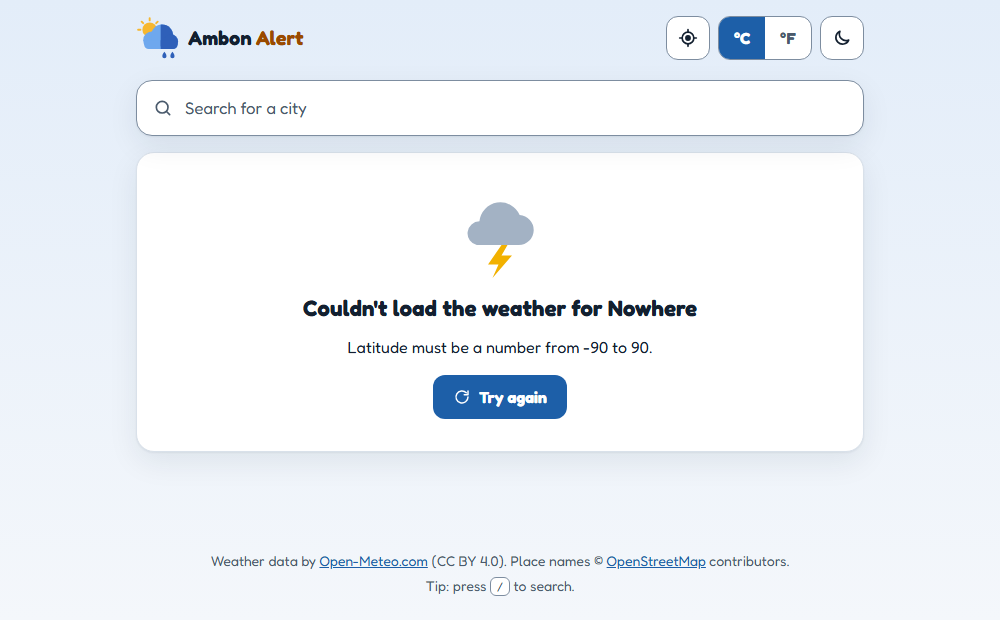
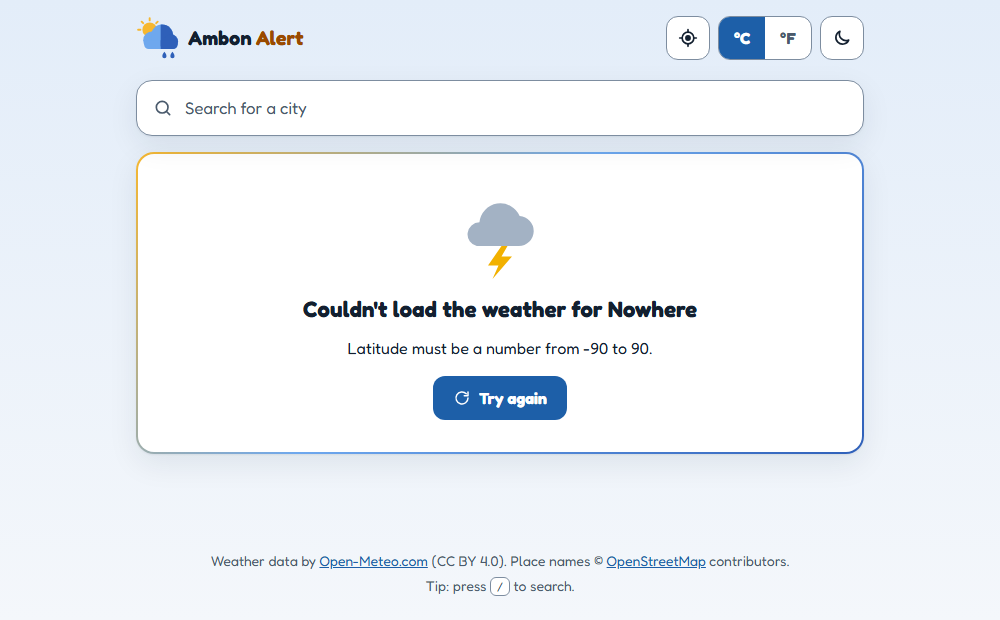
Give every card and table a coloured border
- Cards: a 2px border that fades from the logo's sun orange to its
  light and deep blues, in light and dark themes
- Detail tiles, hour tiles, the 7-day table (new frame and row lines),
  the search dropdown and the notice: a soft blue border
- Slightly less padding in the phone detail tiles, so values fit as before
- AGENTS.md explains the border trick; screenshots retaken

diff --git a/weather/static/style.css b/weather/static/style.css
@@ -24,6 +24,11 @@
   --shimmer: rgb(255 255 255 / 70%);
   --shadow: 0 1px 2px rgb(19 32 48 / 6%), 0 10px 30px rgb(19 32 48 / 8%);
   --radius: 18px;
+  /* coloured borders, from the logo: big cards fade sun -> sky -> deep blue */
+  --edge-sun: #f6b72f;
+  --edge-sky: #6ea8ee;
+  --edge-deep: #2f60b9;
+  --tile-border: #a9c7ef;     /* the small boxes and 7-day rows inside a card */
   /* weather drawings */
   --sun: #f5a524;
   --moon: #8b93c9;
@@ -55,6 +60,10 @@
     --muted: #a2b1c2;
     --border: #26364a;
     --control-border: #687b91;
+    --edge-sun: #fbbf24;
+    --edge-sky: #4f8ee0;
+    --edge-deep: #3a6fd0;
+    --tile-border: #2f4d78;
     --accent: #82b8f5;
     --accent-text: #0c141e;
     --accent-soft: #1d3350;
@@ -94,6 +103,10 @@
   --muted: #a2b1c2;
   --border: #26364a;
   --control-border: #687b91;
+  --edge-sun: #fbbf24;
+  --edge-sky: #4f8ee0;
+  --edge-deep: #3a6fd0;
+  --tile-border: #2f4d78;
   --accent: #82b8f5;
   --accent-text: #0c141e;
   --accent-soft: #1d3350;
@@ -390,7 +403,7 @@ button { font: inherit; }
   margin: 0;
   padding: 6px;
   list-style: none;
-  border: 1px solid var(--border);
+  border: 1px solid var(--tile-border);
   border-radius: 16px;
   background: var(--card);
   box-shadow: var(--shadow);
@@ -452,7 +465,7 @@ button { font: inherit; }
   align-items: center;
   gap: 4px;
   padding: 4px 4px 4px 16px;
-  border: 1px solid var(--border);
+  border: 1px solid var(--tile-border);
   border-left: 4px solid var(--focus);
   border-radius: 12px;
   background: var(--card);
@@ -466,9 +479,13 @@ button { font: inherit; }
 
 .card {
   padding: 20px;
-  border: 1px solid var(--border);
+  border: 2px solid transparent;
   border-radius: var(--radius);
-  background: var(--card);
+  /* Two layers: the card colour fills the inside (padding-box), and the
+     logo colours show only under the see-through border (border-box). */
+  background:
+    linear-gradient(var(--card), var(--card)) padding-box,
+    linear-gradient(135deg, var(--edge-sun), var(--edge-sky) 45%, var(--edge-deep)) border-box;
   box-shadow: var(--shadow);
 }
 .card h2 { margin-bottom: 12px; font-size: 1rem; color: var(--muted); }
@@ -533,7 +550,7 @@ button { font: inherit; }
   gap: 10px;
   margin: 0;
 }
-.detail { padding: 10px 12px; border-radius: 12px; background: var(--card-2); }
+.detail { padding: 10px 12px; border: 1px solid var(--tile-border); border-radius: 12px; background: var(--card-2); }
 .detail dt { font-size: 0.85rem; color: var(--muted); }
 .detail dd { display: flex; align-items: center; gap: 4px; margin: 2px 0 0; font-size: 1.05rem; font-weight: 700; }
 /* app.js turns the arrow with --deg (the way the wind blows). */
@@ -571,11 +588,12 @@ button { font: inherit; }
   gap: 4px;
   width: 70px;
   padding: 10px 4px;
+  border: 1px solid var(--tile-border);
   border-radius: 14px;
   background: var(--card-2);
   scroll-snap-align: start;
 }
-.hour:first-child { background: var(--accent-soft); }
+.hour:first-child { border-color: var(--edge-deep); background: var(--accent-soft); }
 .hour-time { font-size: 0.85rem; color: var(--muted); }
 .hour:first-child .hour-time,
 .hour.new-day .hour-time { color: var(--text); font-weight: 700; }
@@ -587,7 +605,14 @@ button { font: inherit; }
 
 /* ---------- Next 7 days ---------- */
 
-.daily { margin: 0; padding: 0; list-style: none; }
+/* The week is a table with a coloured frame and coloured lines between days. */
+.daily {
+  margin: 0;
+  padding: 0 12px;
+  list-style: none;
+  border: 1px solid var(--tile-border);
+  border-radius: 14px;
+}
 .day {
   position: relative;
   display: grid;
@@ -595,7 +620,7 @@ button { font: inherit; }
   align-items: center;
   gap: 10px;
   padding: 6px 0;
-  border-top: 1px solid var(--border);
+  border-top: 1px solid var(--tile-border);
 }
 .day:first-child { border-top: 0; }
 .day-name { display: flex; flex-direction: column; line-height: 1.25; font-weight: 700; }
@@ -664,7 +689,9 @@ button { font: inherit; }
   .current-main .wx-big { width: 72px; height: 72px; }
   .current-temp { font-size: 3.75rem; }
   .details { grid-template-columns: repeat(2, 1fr); gap: 8px; }
+  .detail { padding: 10px; } /* makes room for the coloured borders */
 
+  .daily { padding: 0 8px; }
   .day { grid-template-columns: 3rem 32px 2.75rem 2.25rem 1fr 2.25rem; gap: 6px; }
   .day .wx-icon { width: 32px; height: 32px; }
 }

diff --git a/AGENTS.md b/AGENTS.md
@@ -50,6 +50,7 @@ The browser calls only our own `/api/...` routes; Flask calls Open-Meteo.
 - Brand: the name is "Ambon Alert" in `base.html` (header: `Ambon <em>Alert</em>`, one line, also on phones), the `<title>`s, `APP_NAME` in `app.js` and `static/site.webmanifest` (`name` and `short_name`); keep them in sync. `Alert` uses `--highlight` (sun orange, darkened for 4.5:1). The logo is `static/icons/logo.svg`, a vector redraw of the owner's original `docs/brand/ambon-alert-logo.png`; the header, welcome card and favicon use it as an `<img>`. `icon-32.png`, `apple-touch-icon.png` (180) and `icon-192/512.png` (white tile, 14% padding for maskable) are rendered from it. Re-render them when the logo changes. `test_app_manifest_and_icons` checks that every linked icon exists.
 - Font: Fredoka from Google Fonts (`wght@400..700`, linked in `base.html`), set on `body`. Everything inherits it (`button { font: inherit }`). 700 is its boldest weight, so don't use 800.
 - Styling: `static/style.css`, colours as CSS variables on `:root`. Dark mode redefines them under `prefers-color-scheme: dark` (unless `data-theme="light"`) and under `[data-theme="dark"]`; change both blocks together. The phone breakpoint is 520px.
+- Coloured borders come from the logo. Each `.card` has a 2px border that fades `--edge-sun` → `--edge-sky` → `--edge-deep`; it is drawn as a second background (`border-box`) under a transparent border, because `border-image` ignores rounded corners. So set a card's colour through `--card`, not by overriding `background`. The boxes inside cards (`.detail`, `.hour`, the `.daily` table and its row lines), the search dropdown and the notice use `--tile-border`.
 - Accessibility: text colours ≥ 4.5:1 and `--control-border` ≥ 3:1 against the card in both themes; text over the page gradient (header, footer) must also reach 4.5:1 on every `--sky-*`. Touch targets ≥ 44px on phones. Every icon-only button has an `aria-label`. `#announcer` (aria-live) says what changed. Things that are `position: absolute` (like `.visually-hidden` labels) inside a scrolling row need a positioned parent, or the page scrolls sideways on phones.
 - Keep comments teaching-oriented but brief. Add or update a test with every behaviour change.
 - Never call Open-Meteo from a test. Save a new fixture instead.
